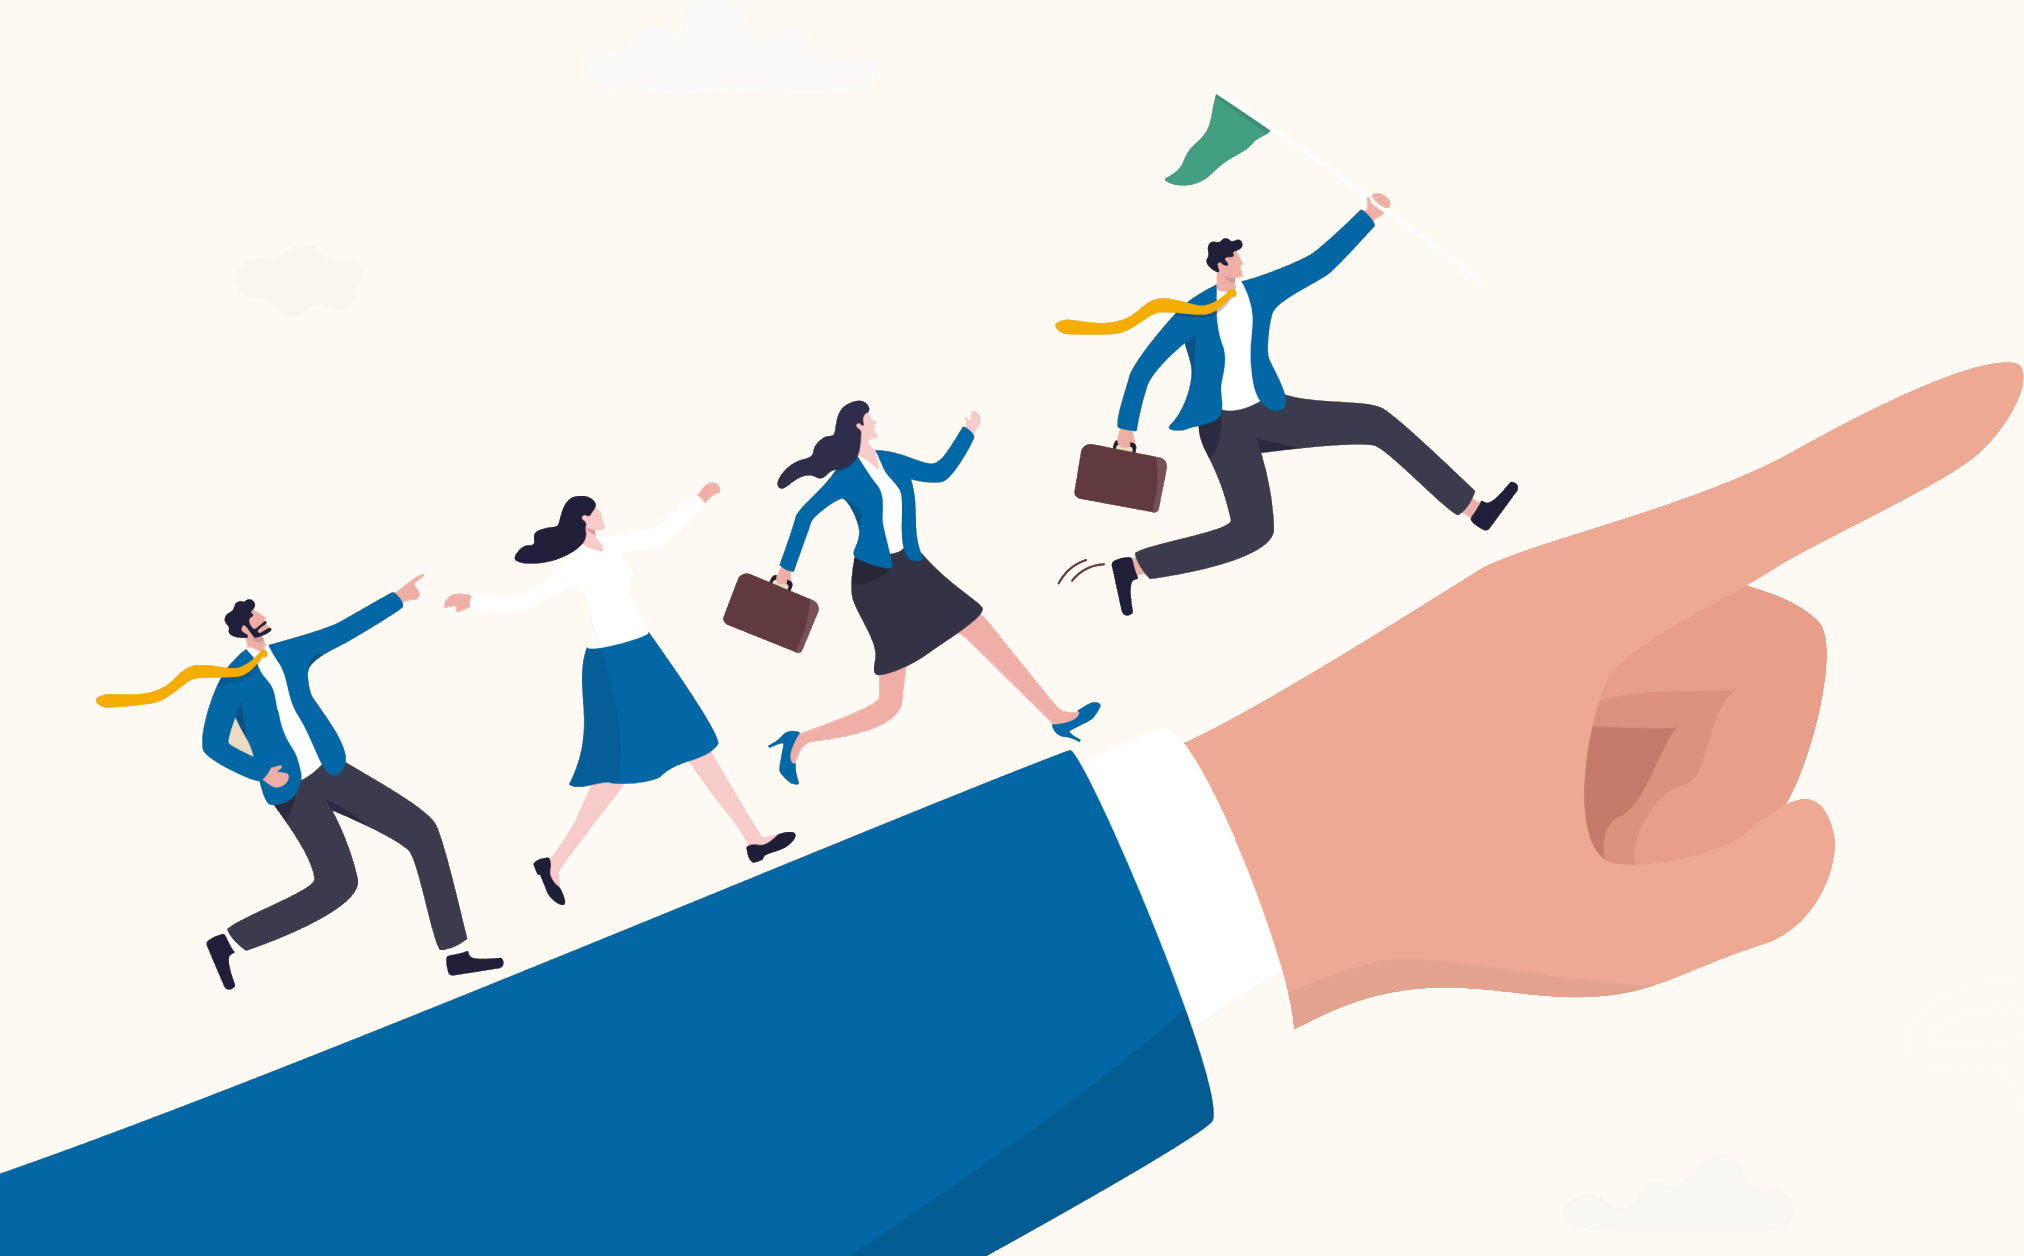
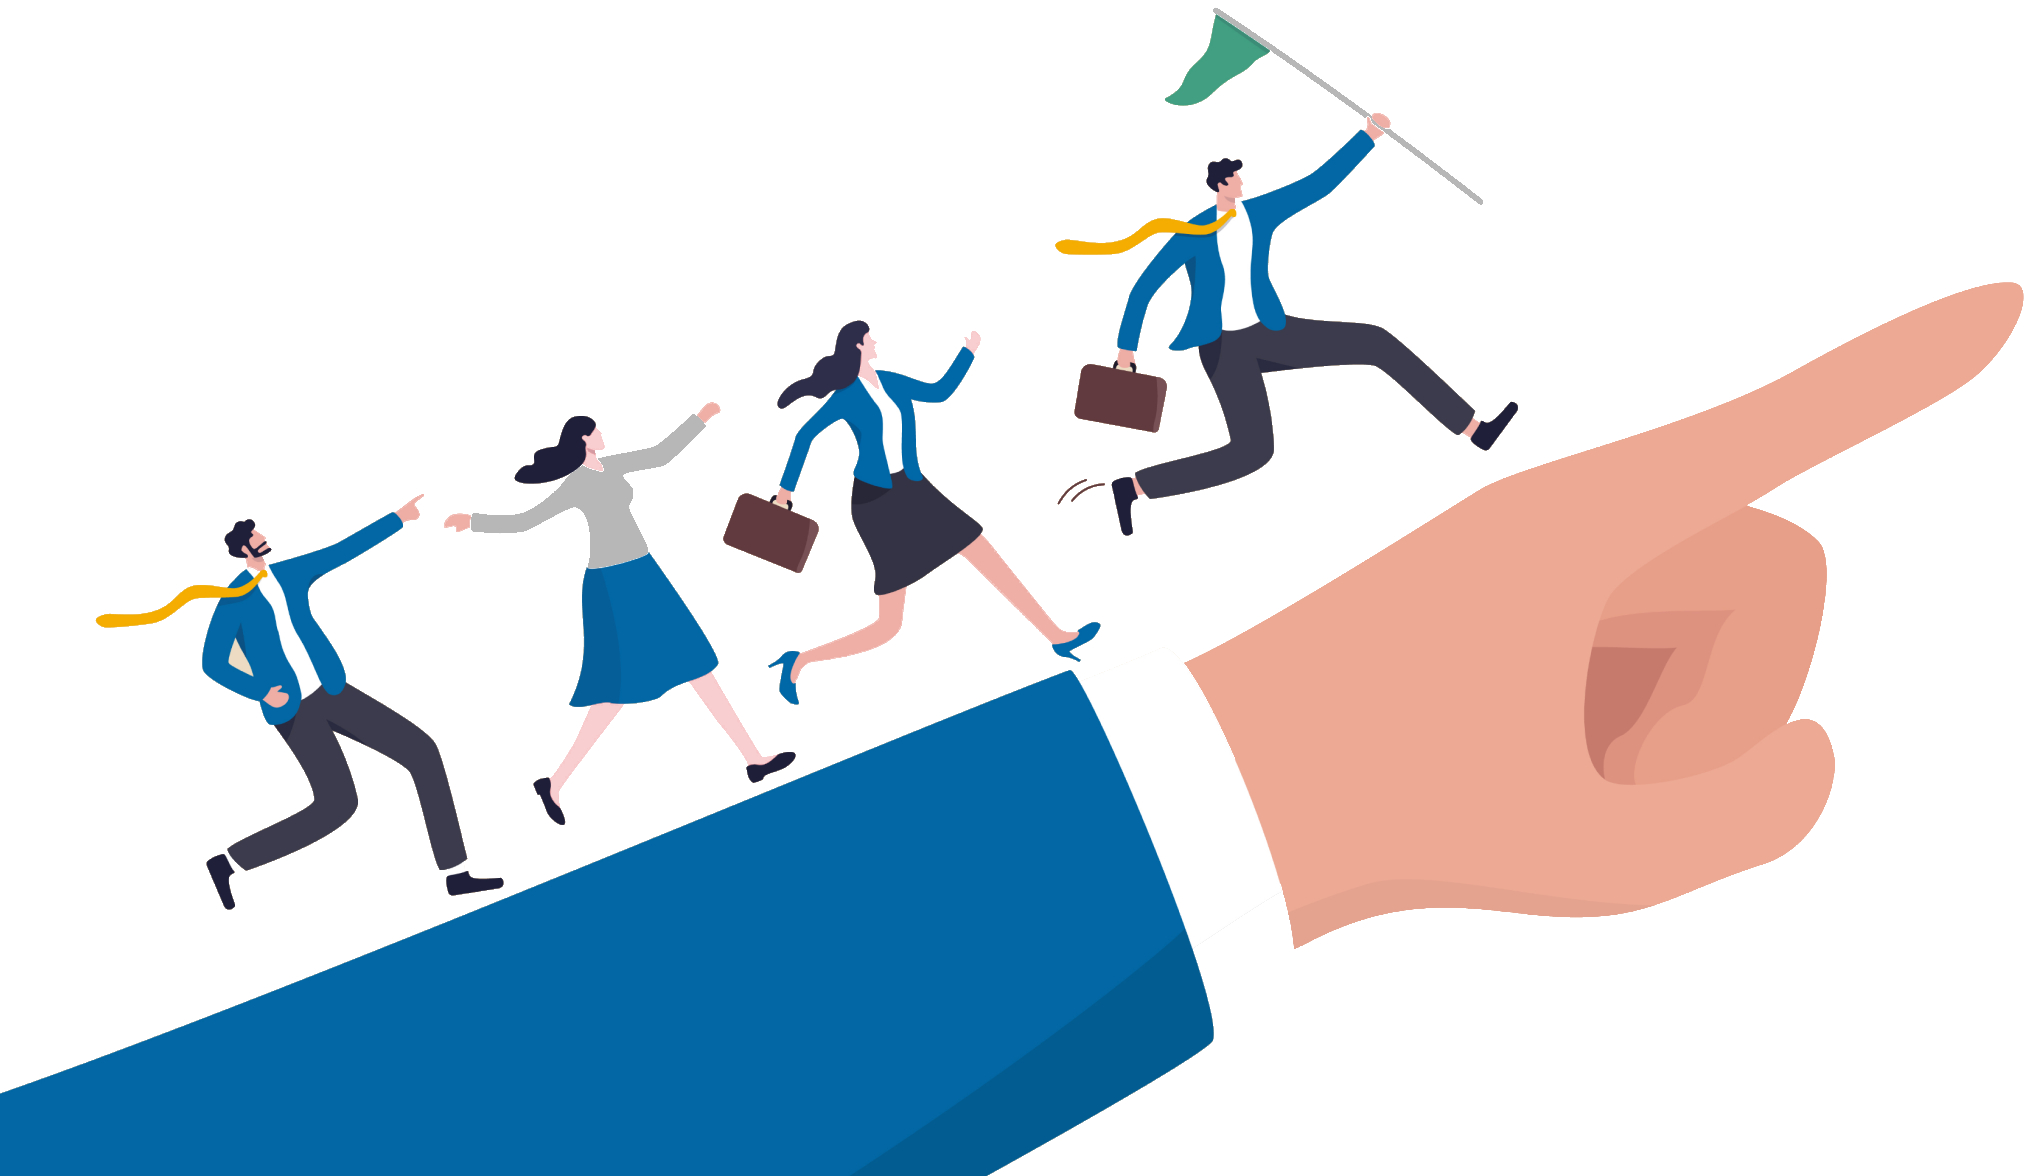
styling(homepage): adding first section of feature showcase to homepage

diff --git a/assets/style.css b/assets/style.css
@@ -4,7 +4,7 @@
 html, body {
     font-family: Montserrat, system-ui, -apple-system, BlinkMacSystemFont, 'Segoe UI', Roboto, Oxygen, Ubuntu, Cantarell, 'Open Sans', 'Helvetica Neue', sans-serif;
     color: rgb(0, 0, 0);
-    background: #FFFBF4;
+    background: #ffffff;
 }
 
 
@@ -118,7 +118,6 @@ img {
     justify-content: center;
     margin: 0 auto;
     margin-top: 6em;
-    z-index: 1;
     width: 100%;
     max-width: 3000px;
     padding: 0 5em;
@@ -275,47 +274,56 @@ img {
     100% { transform: translateY(0); opacity: 1; }
 }
 
-.section2 {
+.wrapper{
+    background-color: #F5F5F5;
+    margin-top: 4em;
+    width: 100%;
+    height: 886px;
+}
+
+.section2-intro{
     display: flex;
-    font-family: 'Poppins', sans-serif;
-    color: #000000;
-    flex-direction: column;
-    justify-content: center;
-    align-items: center; /* Center content horizontally */
+    background-color:#ffffff;
+    border-radius: 1em;
+    align-items: center;
     text-align: center;
-    text-decoration: none;
-    width: 100%;
-    margin-top: 10em;
-    margin-bottom: 5em;
+    justify-content: center;
+    width: 30%;
+    padding: 1em;
+    box-shadow: 1px 1px 7px#888888;
+    margin: 0 auto;
+    
 }
 
-.image2 {
+.insight {
     display: flex;
-    justify-content: center; /* Centering content horizontally */
-    width: 100%;
-    padding-inline: 10%;
-}
-
-.image-wrapper {
-    position: relative;
-    width: 100%;
-    max-height: 800px;
-    overflow: hidden;
-    border-radius: 2em;
-    background-image: linear-gradient(rgba(4, 9, 30, 0.7), rgba(4, 9, 30, 0.7)), url('/assets/background.jpg');
-    background-size: cover;
-    background-position: center;
-}
-
-.image-wrapper img {
-    width: 100%;
-    height: 100%;
-    object-fit: cover;
-    opacity: 0; /* Make the img element invisible to show the background */
-    border-radius: 2em;
+    flex-direction: row;
+    align-items:center ;
+    justify-content: center;
 }
 
 
+.insight img{
+    display: flex;
+    width: 25%;
+    margin-top: 0.5em;
+    
+}
+
+.text {
+    display: flex;
+    flex-direction: column;
+    align-items: center;
+    padding-left: 1em;
+}
+.text h1{
+    display: flex;
+    font-weight: 900;
+}
+.text p{
+    width: 50%;
+    font-family: 'Roboto',sans-serif;
+}
 
 .container-agreed {
     display: flex;
@@ -370,11 +378,6 @@ img {
     text-align: center;
 }
 
-.uriColor {
-    background: linear-gradient(to right, #68abe8 50%, #041e42 50%);
-    background-clip: text;
-    -webkit-text-fill-color: transparent;
-}
 
 .header {
     display: flex;
@@ -382,7 +385,7 @@ img {
     align-content: center;
     margin: 0 auto;
     box-sizing: border-box;
-    box-shadow: 0 0 0.1rem rgba(0, 0, 0, 0.75);
+    box-shadow: 1px 1px 7px#888888;
     position: fixed;
     border-style: solid;
     border-width: thin;
@@ -393,7 +396,7 @@ img {
     margin: 0;
     top: 0;
     left: 0;
-    padding: 0.5rem 6.25rem;
+    
     display: flex;
     z-index: 9999;
     overflow: hidden;
@@ -402,13 +405,16 @@ img {
 
 .logo {
     display: flex;
-    margin: 0;
+    justify-content: left;
+    flex-wrap: wrap;
+    margin: auto 5em;
     padding: 0;
     height: auto;
     width: 100%;
     font-size: 2.5em;
     font-weight: 900;
 }
+
 .logo a {
     display: flex;
     background: linear-gradient(to right, #68abe8 50%, #041e42 50%);
@@ -421,8 +427,8 @@ img {
 
 .logo img {
     display: flex;
-    width: auto;
-    height: auto;
+    width: 1.5em;
+    height: 1.5em;
     
 }
 
@@ -433,17 +439,17 @@ img {
     z-index: 9999;
     width: 100%;
     justify-content: right;
+    margin-right: 3em;
     
    
 }
 
 .navbar a {
     display: flex;
-    font-size: 1.7em;
-    font-family: "Poppins", sans-serif;
+    font-size: 1.3em;
+    font-family: "Roboto", sans-serif;
     padding: 1em;
     color: #000000;
-    font-weight: 700;
     text-decoration: none;
 }
 

diff --git a/public/homepage.html b/public/homepage.html
@@ -6,7 +6,7 @@
     <link rel="stylesheet" href="../assets/reset.css">
     <link rel="stylesheet" href="../assets/style.css">
     <link rel="stylesheet" href="https://fonts.googleapis.com/css2?family=Material+Symbols+Outlined:opsz,wght,FILL,GRAD@24,400,0,0" />
-    <title>Home</title>
+    <title>RhodySyllabi - University of Rhode Island's Syllabus Library</title>
 </head>
 <body>
     <header class="header">
@@ -18,6 +18,7 @@
             <a href="homepage.html">Search</a>
             <a href="formsubmission.html">Form</a>
             <a href="submissions">Library</a>
+            <a href="submissions">About</a>
         </nav>
     </header>
     <div class="homePage">
@@ -43,13 +44,18 @@
             <img src="../assets/empowering.png" alt="Empowering">
         </div>
     </div>
-    <div class="section2">
-        <h1>Why Students Love RhodySyllabi</h1>
-        <div class="image2">
-            <div class="image-wrapper">
-                <img src="/assets/background.jpg" alt="URI">
-            </div>
+
+    <div class = "wrapper">
+        <div class="section2-intro">
+            <h1>Take Control of Your Education With RhodySyllabi</h1>
         </div>
-    </div>
+        <div class = "insight">
+            <img src = "../assets/section2_rhodysyllabi.png" alt = "insight">
+            <div class = "text">
+            <h1>Gain detailed insights into your classes</h1>
+            <p>Don't wait for the first day of class—get the information you need to succeed today. Explore course outlines, key topics, assignment schedules, and more.</p>
+        </div>
+        </div>
+</div>
 </body>
 </html>
